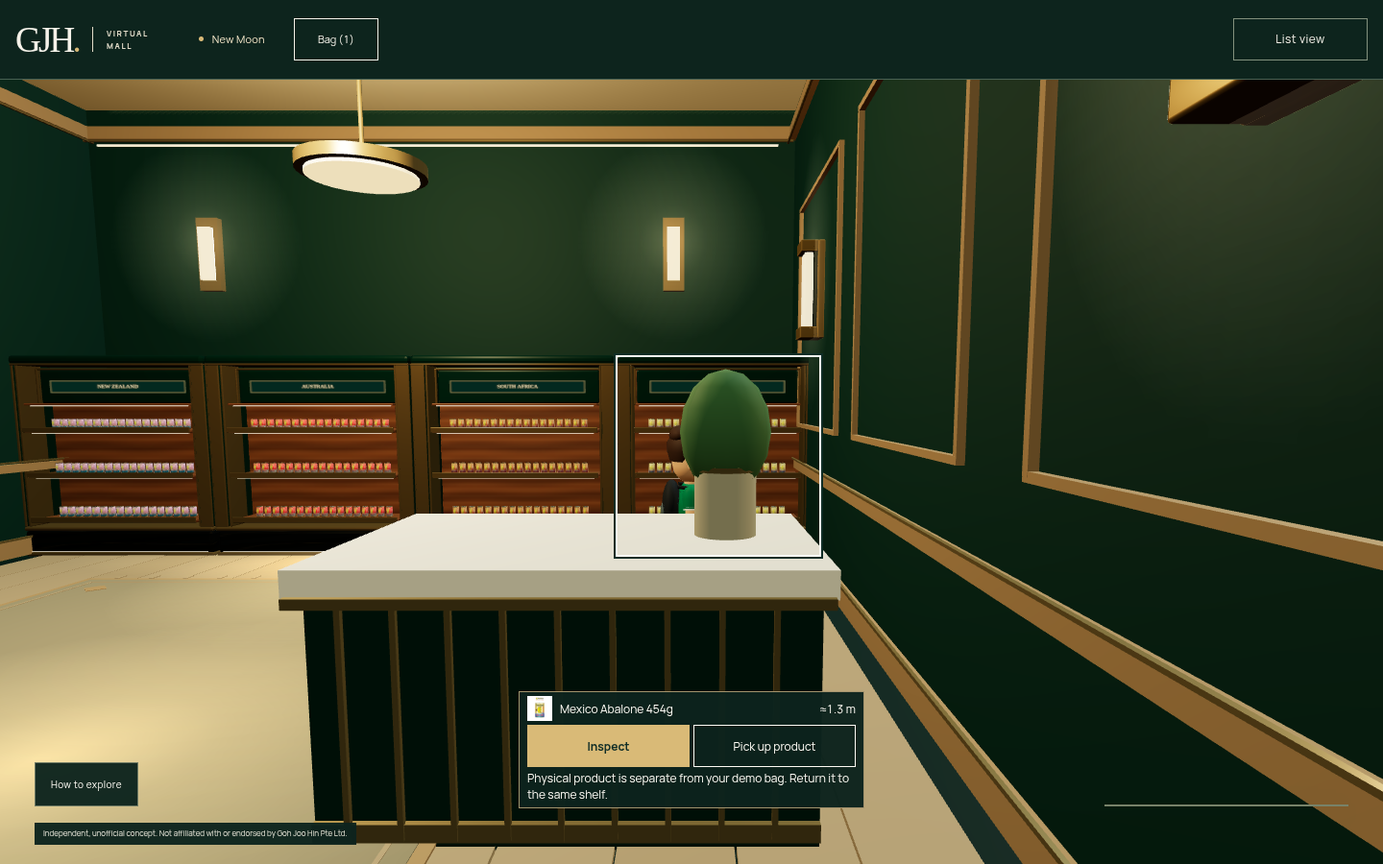
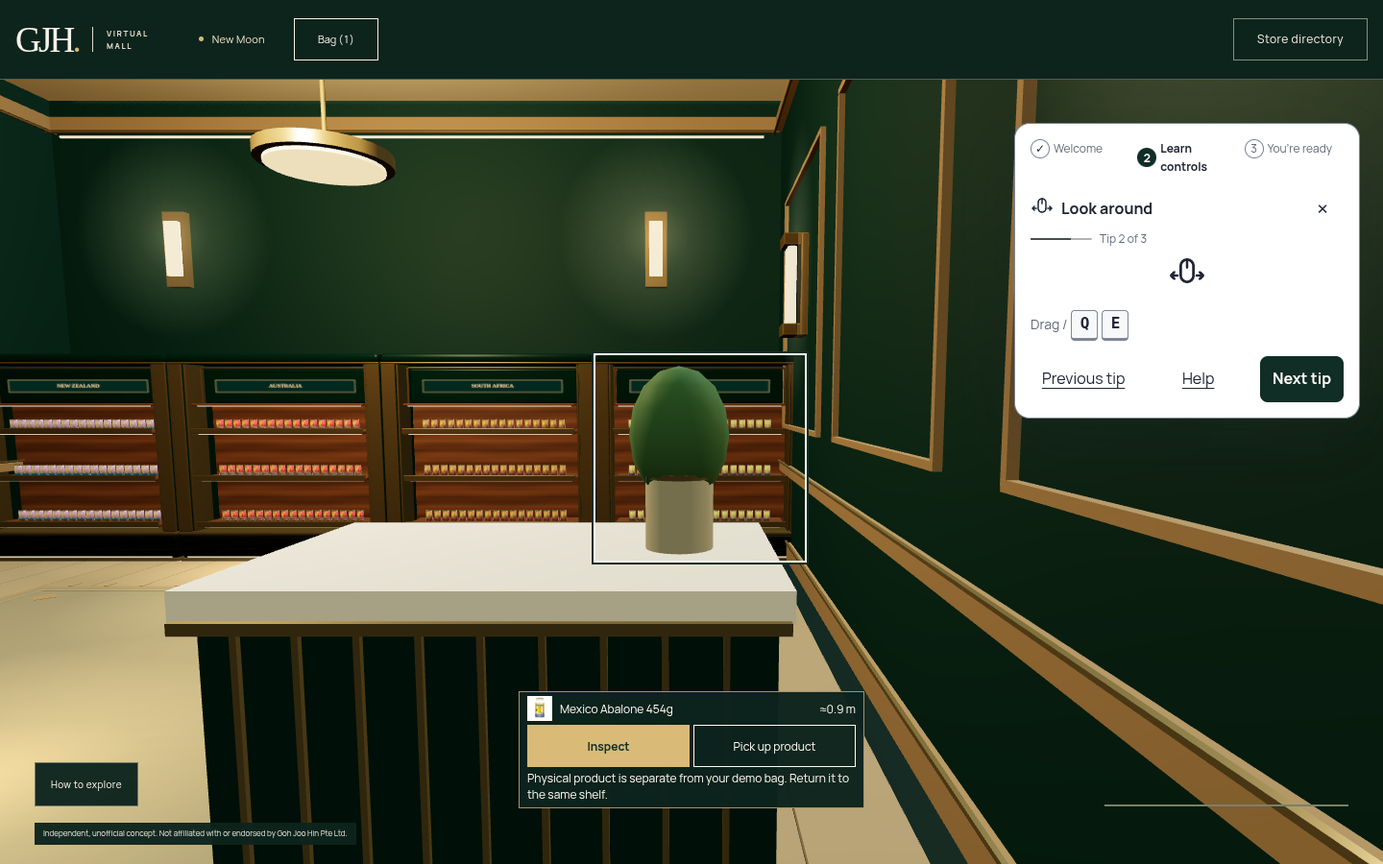
Preserve latest mall changes and restore canonical hybrid design tokens

diff --git a/demos/corporate/gjh/v11/style.css b/demos/corporate/gjh/v11/style.css
@@ -497,52 +497,52 @@ body:not(.is-3d) .context-navigation-global{position:relative;inset:auto;max-wid
 body:not(.is-3d) .context-navigation-global .context-navigation{max-width:1440px;margin:auto;border:0;border-bottom:1px solid var(--line);padding:8px 0}
 body:not(.is-3d):has(.context-navigation-global:not([hidden])){padding-bottom:0}
 body:not(.is-3d) .context-navigation-actions{display:grid;grid-template-columns:repeat(5,minmax(0,1fr));gap:8px;max-width:620px}
-body:not(.is-3d) .context-navigation-actions button{min-width:0;padding:0 3px;font-size:clamp(10px,2.8vw,14px);white-space:nowrap}
+body:not(.is-3d) .context-navigation-actions button{min-width:0;padding:0 3px;font-size:var(--gjh-hybrid-type-caption);white-space:nowrap}
 body:not(.is-3d) .context-navigation p{margin-top:4px}
 body:not(.is-3d) .site-header{background:var(--ivory)}
 body:not(.is-3d) .view-toggle{background:var(--green);color:var(--paper);border-color:var(--green);font-weight:700;letter-spacing:0}
 .store-list .list-heading{display:grid;grid-template-columns:minmax(0,1fr) auto minmax(240px,320px);align-items:center;gap:28px}
-.store-list .list-heading h1{font-size:clamp(36px,4vw,56px)}
+.store-list .list-heading h1{font-size:var(--gjh-hybrid-type-hero)}
 .list-intro{max-width:520px;margin:12px 0 0;color:var(--muted);font-size:var(--font-size-sm);line-height:1.6}
 .store-list .list-summary{border-left:1px solid var(--line);padding-left:22px}
-.mall-preview{position:relative;min-height:120px;overflow:hidden;border-radius:12px;background:var(--green);color:var(--paper)}
+.mall-preview{position:relative;min-height:120px;overflow:hidden;border-radius:var(--radius-lg);background:var(--green);color:var(--paper)}
 .mall-preview>img{position:absolute;width:100%;height:100%;object-fit:cover;opacity:.62}
-.mall-preview>div{position:relative;display:flex;min-height:120px;flex-direction:column;justify-content:center;align-items:flex-start;padding:18px;background:linear-gradient(90deg,transparent,rgba(13,48,38,.9))}
+.mall-preview>div{position:relative;display:flex;min-height:120px;flex-direction:column;justify-content:center;align-items:flex-start;padding:18px;background:var(--gjh-hybrid-media-gradient)}
 .mall-preview>div>span{font-size:var(--font-size-xs);font-weight:700;text-transform:uppercase;letter-spacing:.1em;color:var(--gold)}
-.mall-preview button{border:0;color:var(--paper);font-family:var(--serif);font-size:24px;padding:0;text-align:left}
+.mall-preview button{border:0;color:var(--paper);font-family:var(--serif);font-size:var(--font-size-xl);padding:0;text-align:left}
 .store-list .directory-nav{align-items:center;gap:8px;padding:14px 0;margin-bottom:24px}
 .directory-label{margin-right:12px;font-size:var(--font-size-xs);font-weight:700;text-transform:uppercase;letter-spacing:.14em}
-.store-list .directory-nav button,.store-list .directory-nav a{display:inline-flex;flex:0 0 auto;align-items:center;justify-content:center;gap:8px;min-height:44px;padding:4px 14px;border:1px solid var(--line);border-radius:8px;background:var(--paper);color:var(--green);font-size:var(--font-size-sm);text-decoration:none}
+.store-list .directory-nav button,.store-list .directory-nav a{display:inline-flex;flex:0 0 auto;align-items:center;justify-content:center;gap:8px;min-height:44px;padding:4px 14px;border:1px solid var(--line);border-radius:var(--radius-md);background:var(--paper);color:var(--green);font-size:var(--font-size-sm);text-decoration:none}
 .store-list .directory-nav button img{width:auto;max-width:44px;height:22px;object-fit:contain}
 .store-list .directory-nav button[aria-pressed="true"]{background:var(--green);border-color:var(--green);color:var(--paper)}
-.store-list .directory-nav button[aria-pressed="true"] img{background:var(--paper);border-radius:3px}
+.store-list .directory-nav button[aria-pressed="true"] img{background:var(--paper);border-radius:var(--gjh-hybrid-radius-label)}
 .store-list .directory-nav a{margin-left:auto}
-.store-list .store-overview{grid-template-columns:minmax(260px,38%) 1fr;border-radius:12px;overflow:hidden}
+.store-list .store-overview{grid-template-columns:minmax(260px,38%) 1fr;border-radius:var(--radius-lg);overflow:hidden}
 .store-list .store-overview>.brand-art{padding:0;height:280px;min-height:0}
 .store-list .store-overview>.brand-art img{width:100%;height:100%;max-width:none;max-height:none;object-fit:cover}
 .store-list .store-overview .store-story{padding:28px clamp(24px,3vw,48px)}
 .store-list .store-story h2{margin-bottom:4px}
 .featured-actions{display:flex;align-items:center;flex-wrap:wrap;gap:16px;margin-top:18px}
-.featured-shop{display:inline-flex;align-items:center;justify-content:center;gap:20px;min-height:44px;padding:8px 16px;border-radius:7px;background:var(--paper);color:var(--green);font-size:var(--font-size-sm);font-weight:700;text-decoration:none}
+.featured-shop{display:inline-flex;align-items:center;justify-content:center;gap:20px;min-height:44px;padding:8px 16px;border-radius:var(--gjh-hybrid-radius-control);background:var(--paper);color:var(--green);font-size:var(--font-size-sm);font-weight:700;text-decoration:none}
 .featured-actions button{border:0;color:var(--paper);font-size:var(--font-size-sm);text-decoration:underline;text-underline-offset:5px}
 .products-heading{display:flex;align-items:end;justify-content:space-between;gap:16px;margin-top:28px}
-.products-heading h2{margin:0;font-size:clamp(26px,2.5vw,34px)}
+.products-heading h2{margin:0;font-size:var(--gjh-hybrid-type-title)}
 .products-heading span,.product-results{color:var(--muted);font-size:var(--font-size-xs)}
 .catalog-controls{display:flex;flex-wrap:wrap;align-items:end;gap:12px;margin:18px 0 0}
 .catalog-controls label{display:grid;gap:4px;font-size:var(--font-size-xs);font-weight:700}
-.catalog-controls input,.catalog-controls select{min-height:44px;max-width:100%;padding:8px 12px;border:1px solid var(--line);border-radius:6px;background:var(--paper);color:var(--green);font:inherit}
+.catalog-controls input,.catalog-controls select{min-height:44px;max-width:100%;padding:8px 12px;border:1px solid var(--line);border-radius:var(--gjh-hybrid-radius-small);background:var(--paper);color:var(--green);font:inherit}
 .catalog-controls input{width:min(320px,80vw)}
 .product-results{margin:8px 0 0}
 .store-list .product-grid{gap:14px;margin-top:14px}
-.store-list .product-card{display:flex;flex-direction:column;overflow:hidden;border:1px solid var(--line);border-radius:10px;background:var(--paper);transition:transform 180ms ease,box-shadow 180ms ease}
-.store-list .product-card:hover{transform:translateY(-3px);box-shadow:0 8px 24px rgba(13,48,38,.1)}
-.store-list .product-image{aspect-ratio:1.15;background:#fff}
+.store-list .product-card{display:flex;flex-direction:column;overflow:hidden;border:1px solid var(--line);border-radius:var(--gjh-hybrid-radius-card);background:var(--paper);transition:transform 180ms ease,box-shadow 180ms ease}
+.store-list .product-card:hover{transform:translateY(-3px);box-shadow:var(--gjh-hybrid-shadow-card)}
+.store-list .product-image{aspect-ratio:1.15;background:var(--palette-white)}
 .store-list .product-copy{display:flex;flex:1;flex-direction:column;padding:16px}
 .store-list .product-copy h3{min-height:0;margin:0 0 8px;font-size:var(--font-size-sm);line-height:1.45}
 .product-price{margin:0 0 12px;font-size:var(--font-size-xs);font-weight:700}
 .product-price span{font-weight:400;color:var(--muted)}
 .product-actions{display:grid;grid-template-columns:1fr 1fr;gap:8px;margin-top:auto}
-.store-list .product-inspect,.product-add-card{width:100%;min-height:44px;margin:0;padding:6px;border-radius:6px;font-size:var(--font-size-xs);font-weight:700}
+.store-list .product-inspect,.product-add-card{width:100%;min-height:44px;margin:0;padding:6px;border-radius:var(--gjh-hybrid-radius-small);font-size:var(--font-size-xs);font-weight:700}
 .product-add-card{background:var(--green);color:var(--paper);border-color:var(--green)}
 .product-add-card:disabled{opacity:.65;cursor:not-allowed}
 .product-feedback{min-height:0;margin:6px 0 0;color:var(--muted);font-size:var(--font-size-xs);line-height:1.4}
@@ -550,18 +550,18 @@ body:not(.is-3d) .view-toggle{background:var(--green);color:var(--paper);border-
 .product-store-link{align-self:flex-start;min-height:44px;border:0;padding:0;background:none;text-align:left;text-decoration:underline;text-underline-offset:4px;font-size:var(--font-size-xs)}
 .product-copy .text-link{font-size:var(--font-size-xs)}
 .directory-nav button,.featured-shop,.featured-actions button,.product-actions button,.view-toggle{transition:background-color 180ms ease,color 180ms ease,box-shadow 180ms ease}
-.directory-nav button:hover,.featured-shop:hover,.product-actions button:enabled:hover{box-shadow:0 4px 12px rgba(13,48,38,.18)}
+.directory-nav button:hover,.featured-shop:hover,.product-actions button:enabled:hover{box-shadow:var(--gjh-hybrid-shadow-control)}
 @media(max-width:1000px){.store-list .list-heading{grid-template-columns:minmax(0,1fr) minmax(200px,300px)}.store-list .list-summary{grid-column:1;grid-row:2;padding-left:0;border:0}.mall-preview{grid-column:2;grid-row:1 / span 2}.store-list .product-grid{grid-template-columns:repeat(2,minmax(0,1fr))}.store-list .directory-nav a{margin-left:0}}
 @media(max-width:650px){body:not(.is-3d) .context-navigation-global{padding:0 20px}.store-list .list-heading{grid-template-columns:1fr;gap:16px}.store-list .list-summary,.mall-preview{grid-column:auto;grid-row:auto}.store-list .list-summary{margin:0}.mall-preview,.mall-preview>div{min-height:110px}.store-list .directory-nav{gap:7px}.directory-label{flex-basis:100%}.store-list .directory-nav button,.store-list .directory-nav a{flex:1 1 auto}.store-list .store-overview{grid-template-columns:1fr}.store-list .store-overview>.brand-art{height:190px;min-height:0}.store-list .store-overview>.brand-art img{max-height:none;object-fit:cover}.store-list .store-overview .store-story{padding:22px}.store-list .product-grid{gap:10px}.store-list .product-copy{padding:12px}.product-actions{grid-template-columns:1fr}.products-heading{align-items:start;flex-direction:column;gap:4px}.site-header .view-toggle{min-width:0;padding:0 10px}}
 @media(max-width:360px){.store-list .product-grid{grid-template-columns:1fr}}
 @media(prefers-reduced-motion:reduce){.product-card,.directory-nav button,.featured-shop,.featured-actions button,.product-actions button,.view-toggle{transition:none!important}}
 body:not(.is-3d) .site-header{position:sticky;top:0}
 .concept-gallery{margin-top:var(--space-7);border-top:1px solid var(--line);border-bottom:1px solid var(--line)}
-.concept-gallery summary{display:flex;align-items:center;justify-content:space-between;gap:16px;min-height:64px;cursor:pointer;font-family:var(--serif);font-size:clamp(24px,2.5vw,32px)}
+.concept-gallery summary{display:flex;align-items:center;justify-content:space-between;gap:16px;min-height:64px;cursor:pointer;font-family:var(--serif);font-size:var(--gjh-hybrid-type-section)}
 .concept-gallery summary span{font-family:var(--sans);font-size:var(--font-size-xs);color:var(--muted)}
 .concept-gallery>p{max-width:680px;color:var(--muted);font-size:var(--font-size-sm)}
 .concept-grid{display:grid;grid-template-columns:repeat(4,minmax(0,1fr));gap:16px;padding-bottom:24px}
 .concept-grid figure{margin:0;min-width:0}
-.concept-grid img{width:100%;aspect-ratio:1.6;object-fit:cover;border-radius:8px;background:var(--paper)}
+.concept-grid img{width:100%;aspect-ratio:1.6;object-fit:cover;border-radius:var(--radius-md);background:var(--paper)}
 .concept-grid figcaption{padding-top:6px;font-size:var(--font-size-xs);font-weight:700}
 @media(max-width:800px){.concept-grid{grid-template-columns:repeat(2,minmax(0,1fr))}}

diff --git a/companies/gjh/index.html b/companies/gjh/index.html
@@ -10,7 +10,7 @@
   <meta name="apple-mobile-web-app-status-bar-style" content="default">
   <meta name="apple-mobile-web-app-title" content="Webpage Gallery">
   <meta name="app-version" content="1.1.45">
-  <meta name="app-build" content="794aba1a1d6740a1">
+  <meta name="app-build" content="2c2568db21b3c3dd">
   <meta http-equiv="Content-Security-Policy" content="default-src 'self'; script-src 'self'; style-src 'self' 'unsafe-inline'; img-src 'self' data:; font-src 'self'; connect-src 'self'; frame-src 'self'; worker-src 'self'; manifest-src 'self'; object-src 'none'; base-uri 'self'; form-action 'none'">
   <title>Goh Joo Hin — Design collection</title>
   <link rel="icon" href="../../assets/icons/gallery.svg" type="image/svg+xml">
@@ -42,7 +42,7 @@
         <summary>Settings</summary>
         <div class="settings-panel">
       <div class="gallery-preferences" hidden><label><span>Theme</span><select id="theme-select"><option value="system">System</option><option value="light">Light</option><option value="dark">Dark</option></select></label><label><span>Language</span><select id="language-select" translate="no"><option value="en" lang="en">English</option><option value="zh-Hans" lang="zh-Hans">简体中文</option><option value="ms" lang="ms">Bahasa Melayu</option></select></label><span id="preferences-status" class="visually-hidden" role="status"></span></div>
-      <div class="app-release"><span class="app-version">v1.1.45 <small class="visually-hidden">Build 794aba1a1d6740a1</small></span><button type="button" id="check-update" hidden>Check updates</button></div>
+      <div class="app-release"><span class="app-version">v1.1.45 <small class="visually-hidden">Build 2c2568db21b3c3dd</small></span><button type="button" id="check-update" hidden>Check updates</button></div>
         </div>
       </details>
     </div>
@@ -100,7 +100,7 @@
     <div><span class="footer-brand">Good ideas deserve a place.</span><p>Independent website design concepts, organized by company.<br>Explore the possibilities. Open a demo. Find a direction.</p></div>
     <div class="footer-note"><p>Concepts are unofficial and do not imply company endorsement.</p><a href="../../index.html">All companies <svg class="gallery-icon" aria-hidden="true" focusable="false"><use href="../../assets/icons.svg#arrow-up-right"></use></svg></a></div>
   </footer>
-  <div class="app-tools"><p id="app-status" role="status" aria-live="polite">Version v1.1.45 · 794aba1a1d6740a1</p><button type="button" id="install-app" hidden>Install gallery</button><details><summary>Install help &amp; offline access</summary><p>Use your browser's Install action. On iPhone or iPad, open Share and choose Add to Home Screen. Company browsing, search, design collections and thumbnails work offline once saved. Demos and large screenshots need a connection.</p></details></div>
+  <div class="app-tools"><p id="app-status" role="status" aria-live="polite">Version v1.1.45 · 2c2568db21b3c3dd</p><button type="button" id="install-app" hidden>Install gallery</button><details><summary>Install help &amp; offline access</summary><p>Use your browser's Install action. On iPhone or iPad, open Share and choose Add to Home Screen. Company browsing, search, design collections and thumbnails work offline once saved. Demos and large screenshots need a connection.</p></details></div>
   <button class="scroll-top" type="button" id="scroll-top" aria-label="Back to top" hidden><svg class="gallery-icon" aria-hidden="true" focusable="false"><use href="../../assets/icons.svg#arrow-up"></use></svg></button>
   <dialog id="update-dialog" aria-labelledby="update-title"><div class="update-spinner" aria-hidden="true"></div><h2 id="update-title">Updating Webpage Gallery</h2><p id="update-progress" role="status">Preparing the latest version…</p><button type="button" id="close-update" hidden>Close and try again</button></dialog>
 </body>

diff --git a/companies/index.html b/companies/index.html
@@ -10,7 +10,7 @@
   <meta name="apple-mobile-web-app-status-bar-style" content="default">
   <meta name="apple-mobile-web-app-title" content="Webpage Gallery">
   <meta name="app-version" content="1.1.45">
-  <meta name="app-build" content="794aba1a1d6740a1">
+  <meta name="app-build" content="2c2568db21b3c3dd">
   <meta http-equiv="Content-Security-Policy" content="default-src 'self'; script-src 'self'; style-src 'self' 'unsafe-inline'; img-src 'self' data:; font-src 'self'; connect-src 'self'; frame-src 'self'; worker-src 'self'; manifest-src 'self'; object-src 'none'; base-uri 'self'; form-action 'none'">
   <title>Companies — Webpage Design Gallery</title>
   <link rel="icon" href="../assets/icons/gallery.svg" type="image/svg+xml">
@@ -42,7 +42,7 @@
         <summary>Settings</summary>
         <div class="settings-panel">
       <div class="gallery-preferences" hidden><label><span>Theme</span><select id="theme-select"><option value="system">System</option><option value="light">Light</option><option value="dark">Dark</option></select></label><label><span>Language</span><select id="language-select" translate="no"><option value="en" lang="en">English</option><option value="zh-Hans" lang="zh-Hans">简体中文</option><option value="ms" lang="ms">Bahasa Melayu</option></select></label><span id="preferences-status" class="visually-hidden" role="status"></span></div>
-      <div class="app-release"><span class="app-version">v1.1.45 <small class="visually-hidden">Build 794aba1a1d6740a1</small></span><button type="button" id="check-update" hidden>Check updates</button></div>
+      <div class="app-release"><span class="app-version">v1.1.45 <small class="visually-hidden">Build 2c2568db21b3c3dd</small></span><button type="button" id="check-update" hidden>Check updates</button></div>
         </div>
       </details>
     </div>
@@ -75,7 +75,7 @@
     <div><span class="footer-brand">Good ideas deserve a place.</span><p>Independent website design concepts, organized by company.<br>Explore the possibilities. Open a demo. Find a direction.</p></div>
     <div class="footer-note"><p>Concepts are unofficial and do not imply company endorsement.</p><a href="../index.html">All companies <svg class="gallery-icon" aria-hidden="true" focusable="false"><use href="../assets/icons.svg#arrow-up-right"></use></svg></a></div>
   </footer>
-  <div class="app-tools"><p id="app-status" role="status" aria-live="polite">Version v1.1.45 · 794aba1a1d6740a1</p><button type="button" id="install-app" hidden>Install gallery</button><details><summary>Install help &amp; offline access</summary><p>Use your browser's Install action. On iPhone or iPad, open Share and choose Add to Home Screen. Company browsing, search, design collections and thumbnails work offline once saved. Demos and large screenshots need a connection.</p></details></div>
+  <div class="app-tools"><p id="app-status" role="status" aria-live="polite">Version v1.1.45 · 2c2568db21b3c3dd</p><button type="button" id="install-app" hidden>Install gallery</button><details><summary>Install help &amp; offline access</summary><p>Use your browser's Install action. On iPhone or iPad, open Share and choose Add to Home Screen. Company browsing, search, design collections and thumbnails work offline once saved. Demos and large screenshots need a connection.</p></details></div>
   <button class="scroll-top" type="button" id="scroll-top" aria-label="Back to top" hidden><svg class="gallery-icon" aria-hidden="true" focusable="false"><use href="../assets/icons.svg#arrow-up"></use></svg></button>
   <dialog id="update-dialog" aria-labelledby="update-title"><div class="update-spinner" aria-hidden="true"></div><h2 id="update-title">Updating Webpage Gallery</h2><p id="update-progress" role="status">Preparing the latest version…</p><button type="button" id="close-update" hidden>Close and try again</button></dialog>
 </body>

diff --git a/compare/index.html b/compare/index.html
@@ -10,7 +10,7 @@
   <meta name="apple-mobile-web-app-status-bar-style" content="default">
   <meta name="apple-mobile-web-app-title" content="Webpage Gallery">
   <meta name="app-version" content="1.1.45">
-  <meta name="app-build" content="794aba1a1d6740a1">
+  <meta name="app-build" content="2c2568db21b3c3dd">
   <meta http-equiv="Content-Security-Policy" content="default-src 'self'; script-src 'self'; style-src 'self' 'unsafe-inline'; img-src 'self' data:; font-src 'self'; connect-src 'self'; frame-src 'self'; worker-src 'self'; manifest-src 'self'; object-src 'none'; base-uri 'self'; form-action 'none'">
   <title>Compare — Webpage Design Gallery</title>
   <link rel="icon" href="../assets/icons/gallery.svg" type="image/svg+xml">
@@ -42,7 +42,7 @@
         <summary>Settings</summary>
         <div class="settings-panel">
       <div class="gallery-preferences" hidden><label><span>Theme</span><select id="theme-select"><option value="system">System</option><option value="light">Light</option><option value="dark">Dark</option></select></label><label><span>Language</span><select id="language-select" translate="no"><option value="en" lang="en">English</option><option value="zh-Hans" lang="zh-Hans">简体中文</option><option value="ms" lang="ms">Bahasa Melayu</option></select></label><span id="preferences-status" class="visually-hidden" role="status"></span></div>
-      <div class="app-release"><span class="app-version">v1.1.45 <small class="visually-hidden">Build 794aba1a1d6740a1</small></span><button type="button" id="check-update" hidden>Check updates</button></div>
+      <div class="app-release"><span class="app-version">v1.1.45 <small class="visually-hidden">Build 2c2568db21b3c3dd</small></span><button type="button" id="check-update" hidden>Check updates</button></div>
         </div>
       </details>
     </div>
@@ -58,7 +58,7 @@
     <div><span class="footer-brand">Good ideas deserve a place.</span><p>Independent website design concepts, organized by company.<br>Explore the possibilities. Open a demo. Find a direction.</p></div>
     <div class="footer-note"><p>Concepts are unofficial and do not imply company endorsement.</p><a href="../index.html">All companies <svg class="gallery-icon" aria-hidden="true" focusable="false"><use href="../assets/icons.svg#arrow-up-right"></use></svg></a></div>
   </footer>
-  <div class="app-tools"><p id="app-status" role="status" aria-live="polite">Version v1.1.45 · 794aba1a1d6740a1</p><button type="button" id="install-app" hidden>Install gallery</button><details><summary>Install help &amp; offline access</summary><p>Use your browser's Install action. On iPhone or iPad, open Share and choose Add to Home Screen. Company browsing, search, design collections and thumbnails work offline once saved. Demos and large screenshots need a connection.</p></details></div>
+  <div class="app-tools"><p id="app-status" role="status" aria-live="polite">Version v1.1.45 · 2c2568db21b3c3dd</p><button type="button" id="install-app" hidden>Install gallery</button><details><summary>Install help &amp; offline access</summary><p>Use your browser's Install action. On iPhone or iPad, open Share and choose Add to Home Screen. Company browsing, search, design collections and thumbnails work offline once saved. Demos and large screenshots need a connection.</p></details></div>
   <button class="scroll-top" type="button" id="scroll-top" aria-label="Back to top" hidden><svg class="gallery-icon" aria-hidden="true" focusable="false"><use href="../assets/icons.svg#arrow-up"></use></svg></button>
   <dialog id="update-dialog" aria-labelledby="update-title"><div class="update-spinner" aria-hidden="true"></div><h2 id="update-title">Updating Webpage Gallery</h2><p id="update-progress" role="status">Preparing the latest version…</p><button type="button" id="close-update" hidden>Close and try again</button></dialog>
 </body>

diff --git a/designs/index.html b/designs/index.html
@@ -10,7 +10,7 @@
   <meta name="apple-mobile-web-app-status-bar-style" content="default">
   <meta name="apple-mobile-web-app-title" content="Webpage Gallery">
   <meta name="app-version" content="1.1.45">
-  <meta name="app-build" content="794aba1a1d6740a1">
+  <meta name="app-build" content="2c2568db21b3c3dd">
   <meta http-equiv="Content-Security-Policy" content="default-src 'self'; script-src 'self'; style-src 'self' 'unsafe-inline'; img-src 'self' data:; font-src 'self'; connect-src 'self'; frame-src 'self'; worker-src 'self'; manifest-src 'self'; object-src 'none'; base-uri 'self'; form-action 'none'">
   <title>Design — Webpage Design Gallery</title>
   <link rel="icon" href="../assets/icons/gallery.svg" type="image/svg+xml">
@@ -42,7 +42,7 @@
         <summary>Settings</summary>
         <div class="settings-panel">
       <div class="gallery-preferences" hidden><label><span>Theme</span><select id="theme-select"><option value="system">System</option><option value="light">Light</option><option value="dark">Dark</option></select></label><label><span>Language</span><select id="language-select" translate="no"><option value="en" lang="en">English</option><option value="zh-Hans" lang="zh-Hans">简体中文</option><option value="ms" lang="ms">Bahasa Melayu</option></select></label><span id="preferences-status" class="visually-hidden" role="status"></span></div>
-      <div class="app-release"><span class="app-version">v1.1.45 <small class="visually-hidden">Build 794aba1a1d6740a1</small></span><button type="button" id="check-update" hidden>Check updates</button></div>
+      <div class="app-release"><span class="app-version">v1.1.45 <small class="visually-hidden">Build 2c2568db21b3c3dd</small></span><button type="button" id="check-update" hidden>Check updates</button></div>
         </div>
       </details>
     </div>
@@ -58,7 +58,7 @@
     <div><span class="footer-brand">Good ideas deserve a place.</span><p>Independent website design concepts, organized by company.<br>Explore the possibilities. Open a demo. Find a direction.</p></div>
     <div class="footer-note"><p>Concepts are unofficial and do not imply company endorsement.</p><a href="../index.html">All companies <svg class="gallery-icon" aria-hidden="true" focusable="false"><use href="../assets/icons.svg#arrow-up-right"></use></svg></a></div>
   </footer>
-  <div class="app-tools"><p id="app-status" role="status" aria-live="polite">Version v1.1.45 · 794aba1a1d6740a1</p><button type="button" id="install-app" hidden>Install gallery</button><details><summary>Install help &amp; offline access</summary><p>Use your browser's Install action. On iPhone or iPad, open Share and choose Add to Home Screen. Company browsing, search, design collections and thumbnails work offline once saved. Demos and large screenshots need a connection.</p></details></div>
+  <div class="app-tools"><p id="app-status" role="status" aria-live="polite">Version v1.1.45 · 2c2568db21b3c3dd</p><button type="button" id="install-app" hidden>Install gallery</button><details><summary>Install help &amp; offline access</summary><p>Use your browser's Install action. On iPhone or iPad, open Share and choose Add to Home Screen. Company browsing, search, design collections and thumbnails work offline once saved. Demos and large screenshots need a connection.</p></details></div>
   <button class="scroll-top" type="button" id="scroll-top" aria-label="Back to top" hidden><svg class="gallery-icon" aria-hidden="true" focusable="false"><use href="../assets/icons.svg#arrow-up"></use></svg></button>
   <dialog id="update-dialog" aria-labelledby="update-title"><div class="update-spinner" aria-hidden="true"></div><h2 id="update-title">Updating Webpage Gallery</h2><p id="update-progress" role="status">Preparing the latest version…</p><button type="button" id="close-update" hidden>Close and try again</button></dialog>
 </body>

diff --git a/offline.html b/offline.html
@@ -10,7 +10,7 @@
   <meta name="apple-mobile-web-app-status-bar-style" content="default">
   <meta name="apple-mobile-web-app-title" content="Webpage Gallery">
   <meta name="app-version" content="1.1.45">
-  <meta name="app-build" content="794aba1a1d6740a1">
+  <meta name="app-build" content="2c2568db21b3c3dd">
   <meta http-equiv="Content-Security-Policy" content="default-src 'self'; script-src 'self'; style-src 'self' 'unsafe-inline'; img-src 'self' data:; font-src 'self'; connect-src 'self'; frame-src 'self'; worker-src 'self'; manifest-src 'self'; object-src 'none'; base-uri 'self'; form-action 'none'">
   <title>Connection needed — Webpage Design Gallery</title>
   <link rel="icon" href="assets/icons/gallery.svg" type="image/svg+xml">
@@ -42,7 +42,7 @@
         <summary>Settings</summary>
         <div class="settings-panel">
       <div class="gallery-preferences" hidden><label><span>Theme</span><select id="theme-select"><option value="system">System</option><option value="light">Light</option><option value="dark">Dark</option></select></label><label><span>Language</span><select id="language-select" translate="no"><option value="en" lang="en">English</option><option value="zh-Hans" lang="zh-Hans">简体中文</option><option value="ms" lang="ms">Bahasa Melayu</option></select></label><span id="preferences-status" class="visually-hidden" role="status"></span></div>
-      <div class="app-release"><span class="app-version">v1.1.45 <small class="visually-hidden">Build 794aba1a1d6740a1</small></span><button type="button" id="check-update" hidden>Check updates</button></div>
+      <div class="app-release"><span class="app-version">v1.1.45 <small class="visually-hidden">Build 2c2568db21b3c3dd</small></span><button type="button" id="check-update" hidden>Check updates</button></div>
         </div>
       </details>
     </div>
@@ -64,7 +64,7 @@
     <div><span class="footer-brand">Good ideas deserve a place.</span><p>Independent website design concepts, organized by company.<br>Explore the possibilities. Open a demo. Find a direction.</p></div>
     <div class="footer-note"><p>Concepts are unofficial and do not imply company endorsement.</p><a href="index.html">All companies <svg class="gallery-icon" aria-hidden="true" focusable="false"><use href="assets/icons.svg#arrow-up-right"></use></svg></a></div>
   </footer>
-  <div class="app-tools"><p id="app-status" role="status" aria-live="polite">Version v1.1.45 · 794aba1a1d6740a1</p><button type="button" id="install-app" hidden>Install gallery</button><details><summary>Install help &amp; offline access</summary><p>Use your browser's Install action. On iPhone or iPad, open Share and choose Add to Home Screen. Company browsing, search, design collections and thumbnails work offline once saved. Demos and large screenshots need a connection.</p></details></div>
+  <div class="app-tools"><p id="app-status" role="status" aria-live="polite">Version v1.1.45 · 2c2568db21b3c3dd</p><button type="button" id="install-app" hidden>Install gallery</button><details><summary>Install help &amp; offline access</summary><p>Use your browser's Install action. On iPhone or iPad, open Share and choose Add to Home Screen. Company browsing, search, design collections and thumbnails work offline once saved. Demos and large screenshots need a connection.</p></details></div>
   <button class="scroll-top" type="button" id="scroll-top" aria-label="Back to top" hidden><svg class="gallery-icon" aria-hidden="true" focusable="false"><use href="assets/icons.svg#arrow-up"></use></svg></button>
   <dialog id="update-dialog" aria-labelledby="update-title"><div class="update-spinner" aria-hidden="true"></div><h2 id="update-title">Updating Webpage Gallery</h2><p id="update-progress" role="status">Preparing the latest version…</p><button type="button" id="close-update" hidden>Close and try again</button></dialog>
 </body>

diff --git a/index.html b/index.html
@@ -10,7 +10,7 @@
   <meta name="apple-mobile-web-app-status-bar-style" content="default">
   <meta name="apple-mobile-web-app-title" content="Webpage Gallery">
   <meta name="app-version" content="1.1.45">
-  <meta name="app-build" content="794aba1a1d6740a1">
+  <meta name="app-build" content="2c2568db21b3c3dd">
   <meta http-equiv="Content-Security-Policy" content="default-src 'self'; script-src 'self'; style-src 'self' 'unsafe-inline'; img-src 'self' data:; font-src 'self'; connect-src 'self'; frame-src 'self'; worker-src 'self'; manifest-src 'self'; object-src 'none'; base-uri 'self'; form-action 'none'">
   <title>Companies — Webpage Design Gallery</title>
   <link rel="icon" href="assets/icons/gallery.svg" type="image/svg+xml">
@@ -42,7 +42,7 @@
         <summary>Settings</summary>
         <div class="settings-panel">
       <div class="gallery-preferences" hidden><label><span>Theme</span><select id="theme-select"><option value="system">System</option><option value="light">Light</option><option value="dark">Dark</option></select></label><label><span>Language</span><select id="language-select" translate="no"><option value="en" lang="en">English</option><option value="zh-Hans" lang="zh-Hans">简体中文</option><option value="ms" lang="ms">Bahasa Melayu</option></select></label><span id="preferences-status" class="visually-hidden" role="status"></span></div>
-      <div class="app-release"><span class="app-version">v1.1.45 <small class="visually-hidden">Build 794aba1a1d6740a1</small></span><button type="button" id="check-update" hidden>Check updates</button></div>
+      <div class="app-release"><span class="app-version">v1.1.45 <small class="visually-hidden">Build 2c2568db21b3c3dd</small></span><button type="button" id="check-update" hidden>Check updates</button></div>
         </div>
       </details>
     </div>
@@ -75,7 +75,7 @@
     <div><span class="footer-brand">Good ideas deserve a place.</span><p>Independent website design concepts, organized by company.<br>Explore the possibilities. Open a demo. Find a direction.</p></div>
     <div class="footer-note"><p>Concepts are unofficial and do not imply company endorsement.</p><a href="index.html">All companies <svg class="gallery-icon" aria-hidden="true" focusable="false"><use href="assets/icons.svg#arrow-up-right"></use></svg></a></div>
   </footer>
-  <div class="app-tools"><p id="app-status" role="status" aria-live="polite">Version v1.1.45 · 794aba1a1d6740a1</p><button type="button" id="install-app" hidden>Install gallery</button><details><summary>Install help &amp; offline access</summary><p>Use your browser's Install action. On iPhone or iPad, open Share and choose Add to Home Screen. Company browsing, search, design collections and thumbnails work offline once saved. Demos and large screenshots need a connection.</p></details></div>
+  <div class="app-tools"><p id="app-status" role="status" aria-live="polite">Version v1.1.45 · 2c2568db21b3c3dd</p><button type="button" id="install-app" hidden>Install gallery</button><details><summary>Install help &amp; offline access</summary><p>Use your browser's Install action. On iPhone or iPad, open Share and choose Add to Home Screen. Company browsing, search, design collections and thumbnails work offline once saved. Demos and large screenshots need a connection.</p></details></div>
   <button class="scroll-top" type="button" id="scroll-top" aria-label="Back to top" hidden><svg class="gallery-icon" aria-hidden="true" focusable="false"><use href="assets/icons.svg#arrow-up"></use></svg></button>
   <dialog id="update-dialog" aria-labelledby="update-title"><div class="update-spinner" aria-hidden="true"></div><h2 id="update-title">Updating Webpage Gallery</h2><p id="update-progress" role="status">Preparing the latest version…</p><button type="button" id="close-update" hidden>Close and try again</button></dialog>
 </body>

diff --git a/sw.js b/sw.js
@@ -1,5 +1,5 @@
 /* Generated by scripts/build_gallery.py. Edit this template, not sw.js. */
-const BUILD = "794aba1a1d6740a1";
+const BUILD = "2c2568db21b3c3dd";
 const VERSION = "1.1.45";
 const PRECACHE = [
   {
@@ -36,19 +36,19 @@ const PRECACHE = [
   },
   {
     "path": "assets/tokens.css",
[2 lines of base64/hex data omitted]
   },
   {
     "path": "companies/gjh/index.html",
[2 lines of base64/hex data omitted]
   },
   {
     "path": "companies/index.html",
[2 lines of base64/hex data omitted]
   },
   {
     "path": "compare/index.html",
[2 lines of base64/hex data omitted]
   },
   {
     "path": "data/categories.json",
@@ -100,11 +100,11 @@ const PRECACHE = [
   },
   {
     "path": "designs/index.html",
[2 lines of base64/hex data omitted]
   },
   {
     "path": "index.html",
[2 lines of base64/hex data omitted]
   },
   {
     "path": "locales/en.json",
@@ -124,7 +124,7 @@ const PRECACHE = [
   },
   {
     "path": "offline.html",
[2 lines of base64/hex data omitted]
   },
   {
     "path": "src/gallery.js",

diff --git a/assets/tokens.css b/assets/tokens.css
@@ -127,6 +127,17 @@
   --z-onboarding-dialog: 1000;
   --layout-onboarding-hud: 360px;
   --palette-3d-dark-overlay: #00000066;
+  --gjh-hybrid-media-gradient: linear-gradient(90deg,transparent,rgba(13,48,38,.9));
+  --gjh-hybrid-radius-label: 3px;
+  --gjh-hybrid-radius-small: 6px;
+  --gjh-hybrid-radius-control: 7px;
+  --gjh-hybrid-radius-card: 10px;
+  --gjh-hybrid-shadow-control: 0 4px 12px rgba(13,48,38,.18);
+  --gjh-hybrid-shadow-card: 0 8px 24px rgba(13,48,38,.1);
+  --gjh-hybrid-type-caption: clamp(10px,2.8vw,14px);
+  --gjh-hybrid-type-section: clamp(24px,2.5vw,32px);
+  --gjh-hybrid-type-title: clamp(26px,2.5vw,34px);
+  --gjh-hybrid-type-hero: clamp(36px,4vw,56px);
   --color-text: var(--palette-ink);
   --color-text-muted: var(--palette-muted);
   --color-action: var(--palette-indigo);

diff --git a/docs/v11-newmoon-merchandising-density-review.md b/docs/v11-newmoon-merchandising-density-review.md
@@ -1,5 +1,5 @@
-# New Moon merchandising density — 1.1.44
+# New Moon merchandising density — 1.1.45
 
 Native-size cans now use 17 front facings per M056 shelf level, 51 per cabinet and 204 total. The narrower optional pilot uses 11 per level, 132 total. Single row, 100mm centre spacing, shared geometry/materials and InstancedMesh preserve draw-call batching. Can source bounds remain 77.5mm diameter and 123.99mm height; these remain estimated packaging dimensions, not measured physical product certification. M056 is unchanged at 2.4m width/height. The reservation index is derived from row length and picks the middle can on the middle shelf.
 
-Runtime evidence pending. Independent pre-implementation advisor recommended 17 facings, single row, and no artificial scaling.
+Chromium desktop 1440 and touch-emulated 390 checks passed: all four 3D previews, exact source GLB bounds, 204 placements without overlap, repeated pickup/return, bag, collision and shelf-failure fallback. Observed draw calls: 110 mobile / 116 desktop. No physical-device FPS claim. Actual before/after screenshots and independent advisor review accepted the improved density; wide-view products remain small, with direct Inspect providing readable closeup. Independent pre-implementation advisor recommended 17 facings, single row, and no artificial scaling.

diff --git a/task.md b/task.md
@@ -485,3 +485,7 @@ The four AI comparison images remain separate and undeployed. The concurrent app
 and its pilot assets are preserved; this audit changes documentation only. The physical-device/screen-reader task is now
 the only unchecked item in the original mall acceptance scope; the newly added
 interior follow-ups retain their own status.
+
+## V11 merchandising density — 2026-11-15
+
+1.1.45 preserves native can size, stocks M056 at 17 facings per row (204 total), and retains optional pilot at 11 (132 total). Repeated pickup/return and direct Inspect pass in desktop/390 Chrome. Latest hybrid directory, showcase stock and camera changes are retained. Hybrid CSS literals were moved unchanged into canonical design tokens to restore SSOT; the gate was not relaxed. See docs/v11-newmoon-merchandising-density-review.md.
